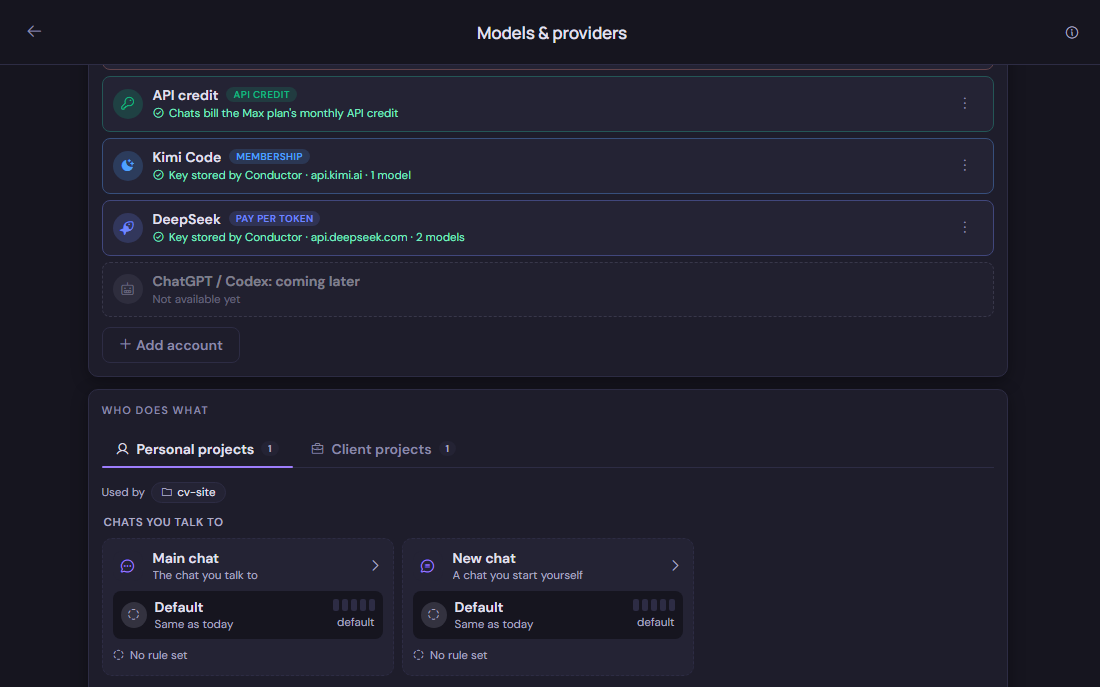
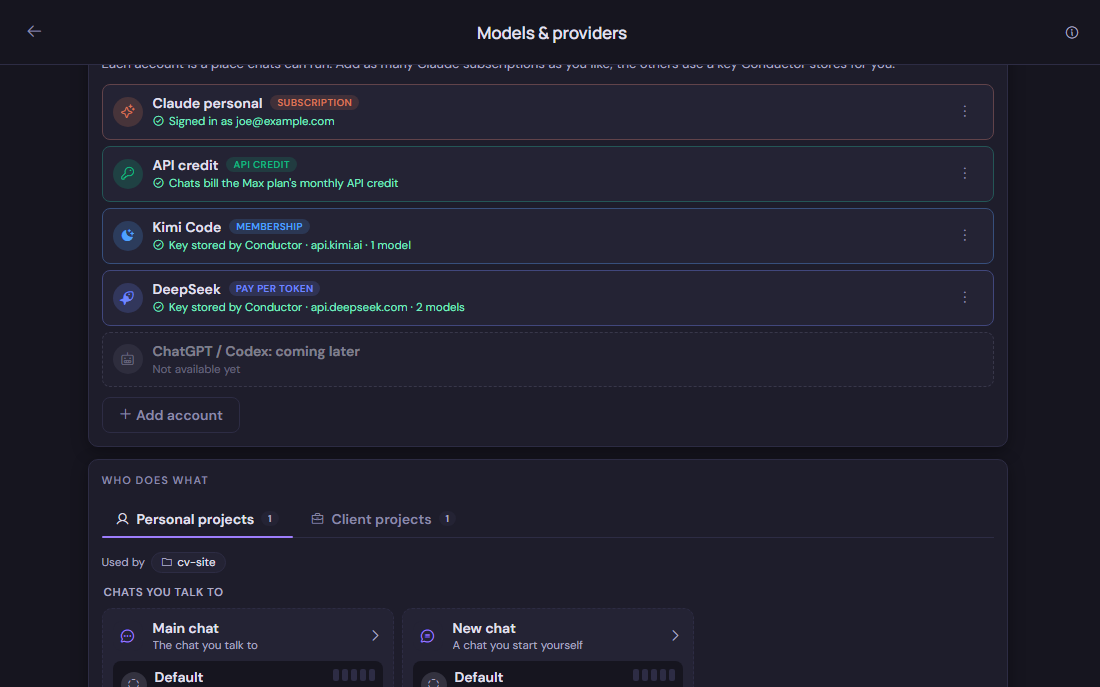
DATA: the 0.2.159 What's new alt texts and the Models and providers caption say only what their pictures show, and the models picture shows every account whole

diff --git a/src/changelog/entries.ts b/src/changelog/entries.ts
@@ -91,19 +91,19 @@ export const ENTRIES: ChangelogEntry[] = [
         title: "Put away means gone from the lists",
         caption: "A put-away chat and its paused subs show in no chat list, on the PC or the phone. Open main chat reopens it.",
         image: putAwayClosed,
-        alt: "The chat heads column with two open chats and no Hidden head, since the put-away chat is in no list",
+        alt: "Two open chats in the heads column, with no Hidden head for the put-away chat",
       },
       {
         icon: "ph-microphone",
         title: "Dictation keeps up",
         caption: "Your words land in the box when you stop talking, and a cleaned-up version swaps in behind them within seconds.",
         image: dictation,
-        alt: "The message box holding dictated words with the red recording mic beside the send button",
+        alt: "A message box holding dictated words, with the microphone beside the send button",
       },
       {
         icon: "ph-plugs-connected",
         title: "Models and providers",
-        caption: "Every account, Claude, Kimi Code, DeepSeek or your own, is listed, with a job's fallback at a usage limit.",
+        caption: "Every account, Claude, Kimi Code, DeepSeek or your own, is listed, and each kind of job picks which one runs it.",
         image: modelsProviders,
         alt: "The Models and providers page with four accounts, each with a badge, and the Who does what tabs below",
       },

diff --git a/e2e/view-harness/changelog-assets.view.spec.ts b/e2e/view-harness/changelog-assets.view.spec.ts
@@ -1025,7 +1025,7 @@ test.describe("@changelog-assets", () => {
     await page.waitForTimeout(900);
     await page.addStyleTag({ content: "#test-build-banner { display: none !important; }" });
     // Scrolled so the account rows and the first role cards of Who does what are both on screen.
-    await page.locator(".mp-page .view-body").evaluate((el) => { el.scrollTop = 150; });
+    await page.locator(".mp-page .view-body").evaluate((el) => { el.scrollTop = 80; });
     await page.waitForTimeout(400);
     await page.screenshot({ path: path.join(IMG, V159, "models-providers.png"), clip: { x: 0, y: 0, width: 1100, height: 1100 / RATIO } });
   });
